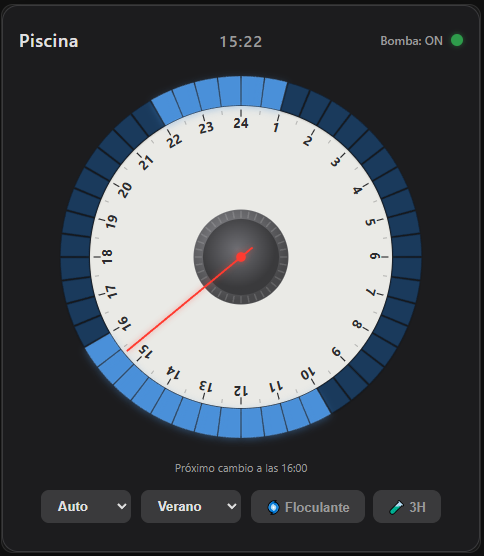
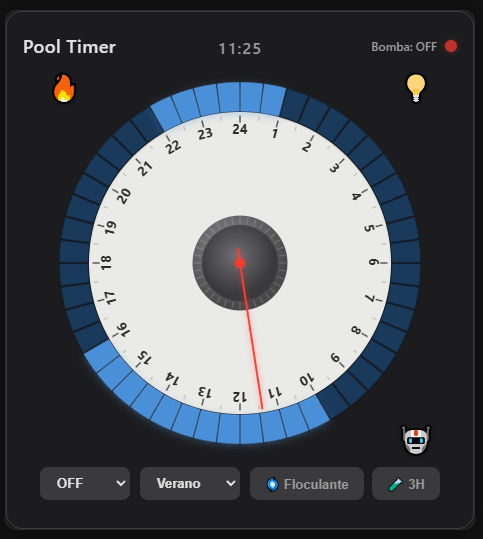
feat: corner actions can press buttons / trigger scenes (v2.9.1)
Add the button service domain and press/trigger actions to the corner-action
editor so a corner button can fire a one-shot button entity (e.g. start pool
robot), a scene, or an automation. _callCornerAction normalizes single-verb
domains (button -> press, scene -> turn_on) so they fire even if the action
dropdown is left at its default. Removed a dead variable.

diff --git a/pool-timer-card.js b/pool-timer-card.js
@@ -852,12 +852,16 @@ class PoolTimerCard extends HTMLElement {
     this._render();
   }
 
-  // Execute a corner action (quick toggle, no timer).
+  // Execute a corner action (quick toggle / button press, no timer).
   _callCornerAction(actionIdx) {
     const action = this._config.corner_actions?.[actionIdx];
     if (!action || !action.entity_id) return;
-    const service = `${action.service}/${action.action}`;
-    this._hass?.callService(action.service, action.action, {
+    // Domains that only support a single activation verb: normalize so the call
+    // works even if the action dropdown was left at its default (e.g. a button
+    // must be pressed, not toggled).
+    const domainVerb = { button: 'press', scene: 'turn_on' };
+    const verb = domainVerb[action.service] || action.action || 'toggle';
+    this._hass?.callService(action.service, verb, {
       entity_id: action.entity_id,
     });
   }
@@ -1818,8 +1822,8 @@ class PoolTimerCardEditor extends HTMLElement {
       ['bl', 'Bottom-left'], ['br', 'Bottom-right'],
     ];
     const posAlias = { 'top-left': 'tl', 'top-right': 'tr', 'bottom-left': 'bl', 'bottom-right': 'br' };
-    const services = ['switch', 'light', 'fan', 'input_boolean', 'script', 'automation', 'scene'];
-    const acts = [['toggle', 'Toggle'], ['turn_on', 'On'], ['turn_off', 'Off']];
+    const services = ['switch', 'light', 'fan', 'input_boolean', 'button', 'script', 'automation', 'scene'];
+    const acts = [['toggle', 'Toggle'], ['turn_on', 'On'], ['turn_off', 'Off'], ['press', 'Press'], ['trigger', 'Trigger']];
     const header = `
       <div class="list-header">
         <span>Icon · Name · Position — then Entity · Service · Action</span>
@@ -2234,7 +2238,7 @@ window.customCards.push({
 });
 
 console.info(
-  '%c POOL-TIMER-CARD %c v2.9.0 ',
+  '%c POOL-TIMER-CARD %c v2.9.1 ',
   'background:#4A90D9;color:#fff;font-weight:700;padding:2px 6px;border-radius:4px 0 0 4px',
   'background:#1A3A5C;color:#fff;padding:2px 6px;border-radius:0 4px 4px 0'
 );

diff --git a/README.md b/README.md
@@ -267,9 +267,24 @@ corner_actions:
 - `name` — button label / tooltip (required)
 - `icon` — emoji for the button (required)
 - `position` — corner position (required): `"tl"` / `"top-left"`, `"tr"` / `"top-right"`, `"bl"` / `"bottom-left"`, `"br"` / `"bottom-right"`
-- `service` — HA service domain: `switch`, `light`, `automation`, `script`, etc.
+- `service` — HA service domain: `switch`, `light`, `button`, `script`, `scene`, `automation`, etc.
 - `entity_id` — the entity to control (required)
-- `action` — what to do: `toggle`, `turn_on`, `turn_off`
+- `action` — what to do: `toggle`, `turn_on`, `turn_off`, `press` (for `button` entities), `trigger` (for automations)
+
+**Pressing a button** (e.g. a one-shot "start pool robot" `button` entity): set
+`service: button` and `action: press` (the card sends `button.press`). `button`
+and `scene` are normalized automatically, so even if the action is left at its
+default they still fire correctly (`button.press` / `scene.turn_on`).
+
+```yaml
+corner_actions:
+  - name: "Start Robot"
+    icon: "🤖"
+    position: "bottom-right"
+    service: "button"
+    entity_id: "button.pool_robot_start"
+    action: "press"
+```
 
 **Visual feedback:**
 - Default: icon only, subtle shadow

diff --git a/CHANGELOG.md b/CHANGELOG.md
@@ -4,6 +4,16 @@ All notable changes to the Pool Timer Card are documented here.
 The format is based on [Keep a Changelog](https://keepachangelog.com/),
 and the project adheres to [Semantic Versioning](https://semver.org/).
 
+## [2.9.1] - 2026-06-11
+
+### Added
+- **Corner actions can press buttons**: added the `button` service domain and
+  `press` / `trigger` actions to the editor, so a corner button can fire a
+  one-shot `button` entity (e.g. *start pool robot*), a `scene`, or `automation`.
+  `_callCornerAction` normalizes single-verb domains (`button` → `press`,
+  `scene` → `turn_on`) so they work even if the action dropdown is left at its
+  default. (Also removed a dead variable in `_callCornerAction`.)
+
 ## [2.9.0] - 2026-06-11
 
 ### Added